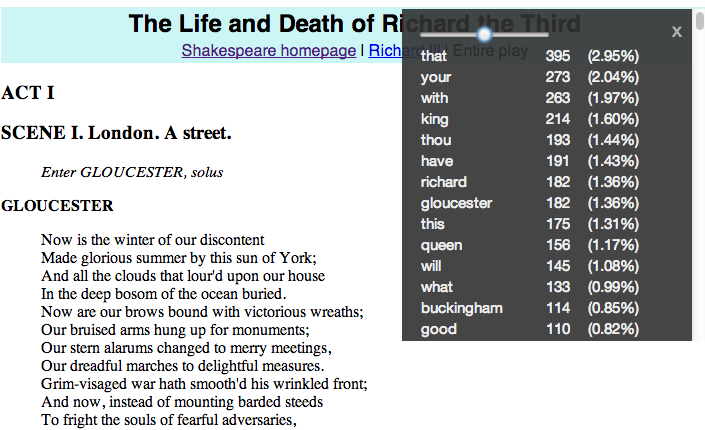
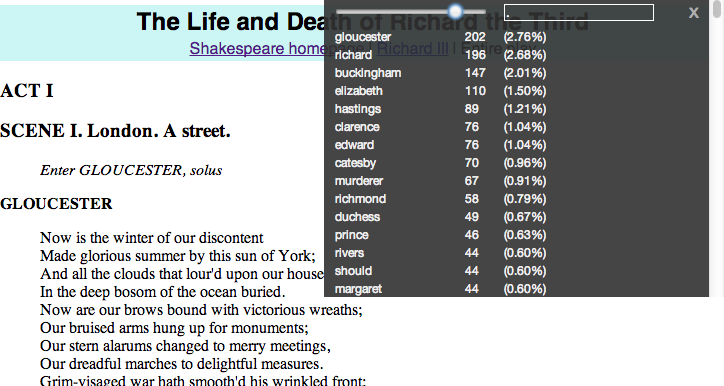
show regex example

diff --git a/README.md b/README.md
@@ -7,4 +7,8 @@ Wordy lists all words on the current web page by usage frequency. Use the bookma
 
 ![alt tag](https://raw.github.com/angus-c/wordy/master/demo.png)
 
+You can also filter the results with a regular expression
+
+![alt tag](https://raw.github.com/angus-c/wordy/master/demo2.png)
+
 
